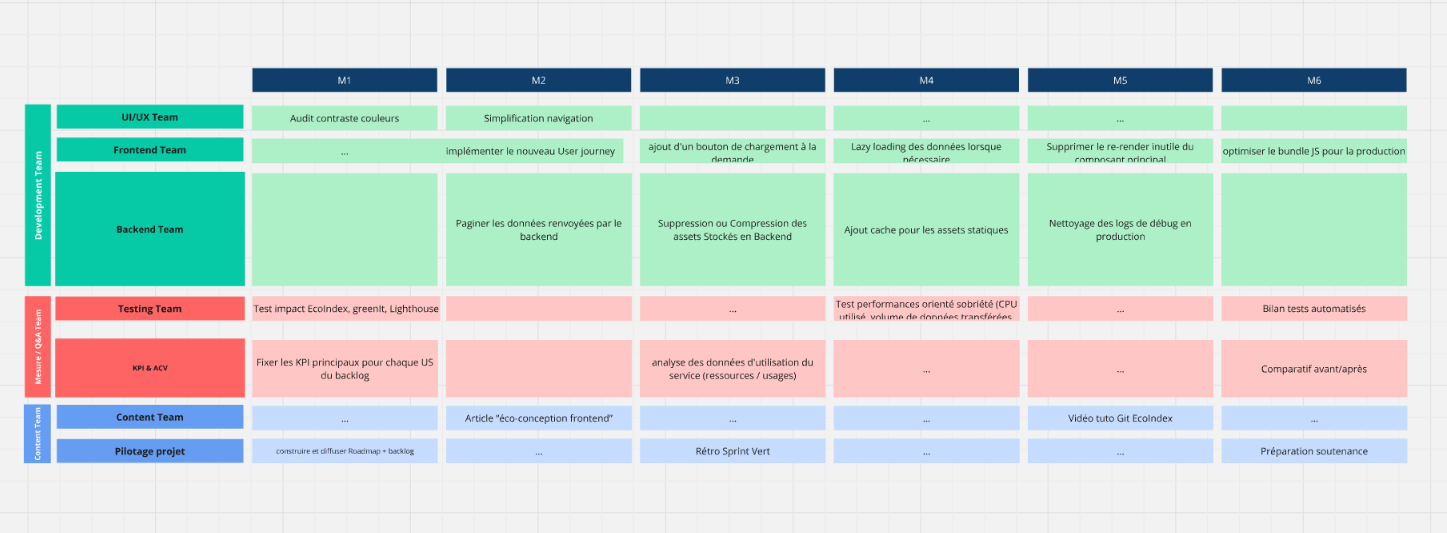
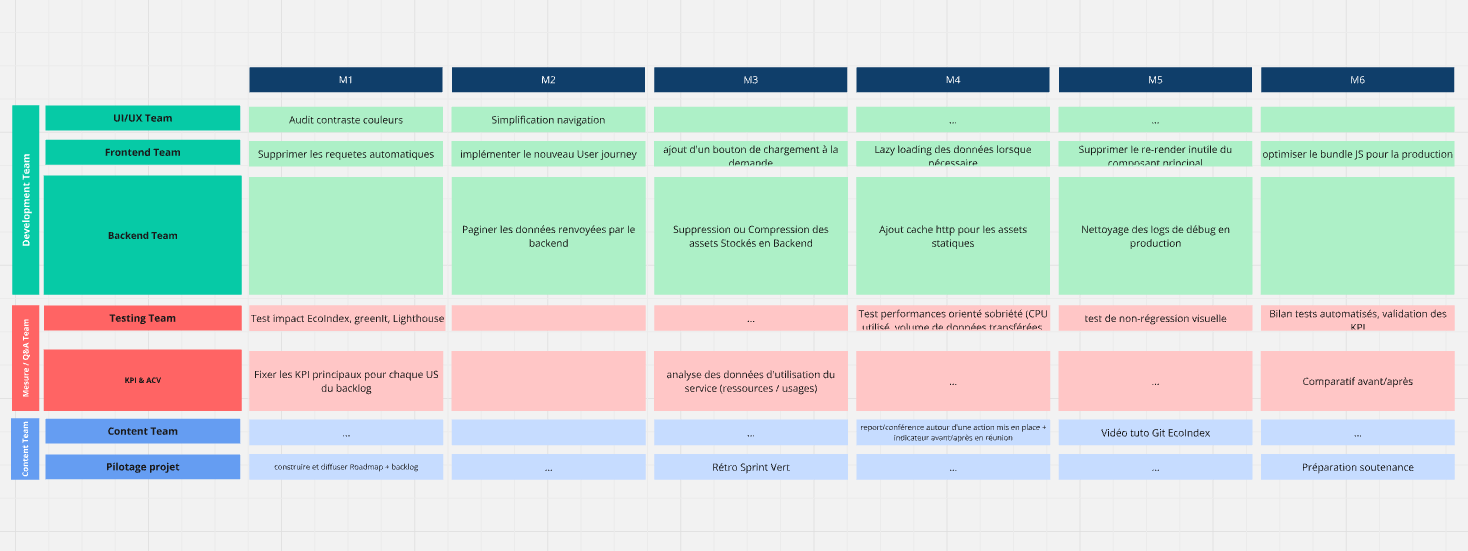
docs : update backlog.md et cartographie_projet pour ajouter un synthèse des orientations choisies

Changed region(s): [[0.0, 0.1201, 0.9952, 0.8705], [0.311, 0.6304, 0.9952, 0.8705]]

diff --git a/cartographie_projet.md b/cartographie_projet.md
@@ -1,2 +1,112 @@
+# Cartographie du projet — Eco-Training Starters
+
+## 1. Présentation du projet
+
+**Eco-Training Starters** est un projet réalisé dans le cadre de la formation **CDA — Simplon.co** (06/2026). Il s'agit d'un repo pedagogiques visant à se rapprocher d'une app de type **outil interne**/ **dashboard** avec les fonctionnalités suivantes :
+
+- 🔐 Pseudo Authentification (login)
+- 📊 Tableau de bord (dashboard)
+- 📋 Table de données volumineuse (records)
+- 📈 Page d'analytise
+- ⚙️ Page de paramètres
+
+A partir de l'étude du code existant, l'objectif est de **transformer les constats issus d'une ACV flash** en une **stratégie d'action concrète et priorisée** d'éco-conception, puis de les implémenter sur un environnement technique représentatif.
+
+J'ai choisis ce projet heavy-ops car mon projet chef d'oeuvre CDA consiste en une application journal de restauration de montres vintage. Ce sera donc une application métier qui permettra de s'authentifier et de conserver les traces et notes de restaurations de montres. 
+
+---
+
+## 2. Synthèse des problématiques identifiées
+
+| # | Problème | Impact |
+|---|----------|--------|
+| 🥇 | **Polling agressif** — 4 appels API toutes les 5 secondes (48 req/min) | Gaspillage réseau et CPU serveur + client |
+| 🥇 | **Chargement intégral des données** — tous les endpoints sont appelés au montage | Volume transféré inutile (~2 000 Ko sur la vue dashboard) |
+| 🥇 | **Absence de pagination** — 366 enregistrements dans le DOM | DOM surchargé, mémoire et rendu dégradés |
+| 🥈 | **Bundle React en mode development** — react-dom.development.js ~900 KB | Poids JS transféré : 1,66 MB dont 50 % inutilisé |
+| 🥈 | **Absence de cache HTTP** — `Cache-Control: no-store` sur toutes les routes | Charge serveur inutile pour des données quasi-statiques |
+| 🥈 | **CSS desktop-first** — point de rupture unique à 1180px | Non adapté aux terminaux mobiles |
+| 🥉 | **Logs console backend** actifs en continu | Bruit inutile, consommation CPU |
+| 🥉 | **Police inutilisée** — 'IBM Plex Sans' déclarée mais jamais employée | Poids CSS superflu |
+| 🥉 | **Images volumineuses et inutilisées** dans /assets | Stockage et bande passante gaspillés |
+
+**Niveaux de priorité** : 🥇 Critique / 🥈 Importante / 🥉 Secondaire
+
+---
+
+## 3. Axes de progrès retenus
+
+### Axe 1 — Réseau & données (priorité haute)
+| Action | US associée | Objectif |
+|--------|-------------|----------|
+| Remplacer le polling par un rafraîchissement à la demande | US #1 | -90 % de requêtes API |
+| Charger les données par page (lazy loading) | US #2 | -70 % de volume transféré initial |
+| Paginer les données côté backend | US #3 | DOM < 100 éléments (vs 366) |
+
+### Axe 2 — Performance frontend (priorité moyenne)
+| Action | US associée | Objectif |
+|--------|-------------|----------|
+| Refondre le CSS en mobile first | US #4 | Poids CSS < 8 Ko, 0 règle inutilisée |
+| Minifier et optimiser le bundle JS | US #5 | Bundle JS < 500 KB (vs 1,66 MB) |
+
+### Axe 3 — Backend & infrastructure (priorité moyenne)
+| Action | US associée | Objectif |
+|--------|-------------|----------|
+| Mettre en place un cache applicatif | US #6 | Score Best Practices Lighthouse = 100 |
+| Supprimer les logs de debug en production | US #6 | Nettoyage environnement de production |
+
+---
+
+## 4. Critères de réussite
+
+Les implémentations seront validées par les critères suivants :
+
+| Critère | Cible | Mesure |
+|---------|-------|--------|
+| Requêtes API | < 5 req/min (vs 48) | DevTools — onglet Réseau |
+| Taille page dashboard | < 600 Ko (vs 2 013 Ko) | GreenIt-Analysis |
+| Taille du DOM | < 100 éléments (vs 366) | GreenIt-Analysis |
+| Poids CSS | < 8 Ko (vs ~12 Ko) | DevTools — onglet Réseau |
+| Bundle JS transféré | < 500 KB (vs 1,66 MB) | Lighthouse |
+| Score Best Practices | 100/100 | Lighthouse |
+| Aucune régression visuelle | Conforme sur 4 écrans | Test visuel manuel |
+
+---
+
+## 5. KPI principaux
+
+| KPI | Source | Valeur initiale | Cible |
+|-----|--------|----------------:|------:|
+| EcoIndex (page d'accueil) | GreenIt-Analysis | 93.65 (A) | ≥ 95 (A) |
+| EcoIndex (vue dashboard) | GreenIt-Analysis | 69.73 (C) | ≥ 80 (B) |
+| GES (vue dashboard) | GreenIt-Analysis | 1.61 gCO2e | < 1.0 gCO2e |
+| Consommation eau (dashboard) | GreenIt-Analysis | 2.41 cl | < 1.5 cl |
+| Performance Lighthouse | Lighthouse | 60/100 | ≥ 85/100 |
+| Taille du DOM (dashboard) | GreenIt-Analysis | 366 éléments | ≤ 50 éléments |
+| Requêtes réseau | DevTools | 48 req/min | < 5 req/min |
+| Bundle JS transféré | Lighthouse | 1,66 MB | < 500 KB |
+
+---
+
+## 6. Priorités et séquencement
 
 ![Cartographie du projet](./resources/cartographie_projet.png)
+
+
+---
+
+## 7. Équipes et rôles
+
+| Équipe | Responsabilités |
+|--------|-----------------|
+| **UX / UI** | Parcours utilisateur, mobile first, simplification CSS |
+| **Frontend** | Rafraîchissement manuel, lazy loading, pagination UI, optimisation bundle React |
+| **Backend** | Pagination API, cache http, suppression logs, nettoyage assets |
+| **QA / Test** | Non-régression visuelle, validation des KPIs, tests de charge |
+| **Content** | Documentation, suppression contenus inutilisés |
+| **KPI / Data** | Suivi EcoIndex, GreenIt, Lighthouse tout au long du projet |
+| **Pilotage** | Coordination, priorisation, revue des critères de succès |
+
+---
+
+*Document réalisé dans le cadre du brief éco-conception — Formation CDA Simplon.co — 06/2026*

diff --git a/heavy-ops/backlog.md b/heavy-ops/backlog.md
@@ -59,7 +59,7 @@ Diagnostic ecoconception realise avec Lighthouse, GreenIt-Analysis et EcoIndex l
 - Contexte: En tant qu'**equipe front-end**, je veux **refondre le CSS en adoptant une approche mobile first et en supprimant les declarations inutilisees**, afin de **reduire le poids des feuilles de style et la consommation memoire du rendu navigateur sur tous les terminaux**.
 - Objectif: Reduire la taille du fichier CSS d'au moins 30 % (de ~12 Ko a < 8 Ko) et supprimer le bloc `@media (max-width: 1180px)` au profit de breakpoints progressifs (mobile → tablette → desktop)
 - Bonne pratique d eco-conception ciblee: **CSS optimise et adaptatif** — conception mobile first, suppression des declarations orphelines, polices inutiles retirees
-- KPI associe: Taille du fichier CSS (Ko) mesuree dans le panneau Reseau des DevTools (cible : < 8 Ko) et nombre de declarations CSS inutilisees mesure par l'audit Lighthouse "Unused CSS Rules" (cible : 0)
+- KPI associe: Taille du fichier CSS (Ko) mesurée dans le panneau Reseau des DevTools (cible : < 8 Ko) et nombre de declarations CSS inutilisees mesure par l'audit Lighthouse "Unused CSS Rules" (cible : 0)
 - Repo ou ecran concerne: Frontend `ops.css` (integralite du fichier — toutes les pages)
 - Critere de reussite:
   - La police `'IBM Plex Sans'` est supprimee de la declaration `font-family` (police inutile dans un dashboard metier) ; seule `'Trebuchet MS', sans-serif` est conservee